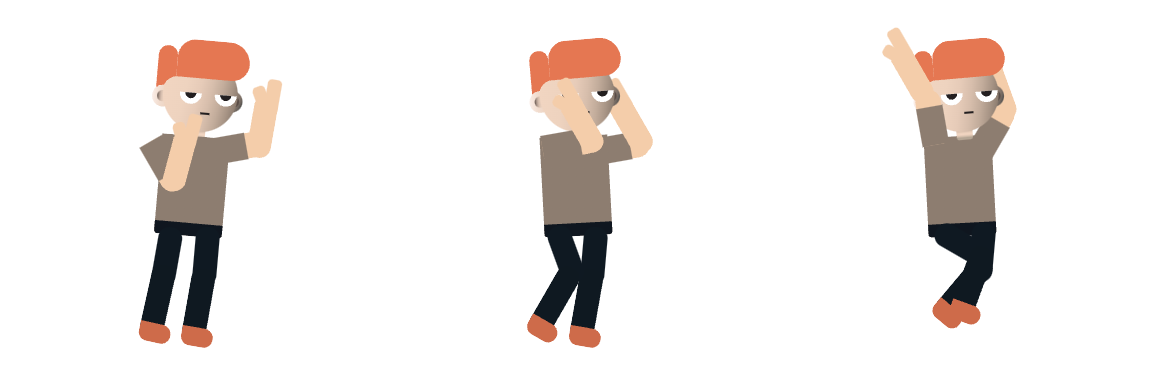
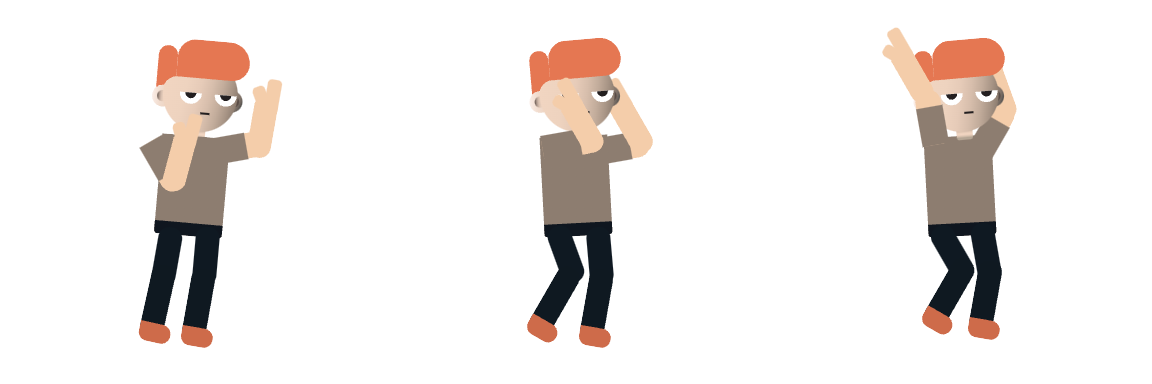
add: tutorial map, wall, jump animation fixed

Changed region(s): [[0.7812, 0.5938, 0.875, 0.9062], [0.4688, 0.625, 0.5312, 0.9062]]

diff --git a/src/components/scene-environments/Tutorial.tsx b/src/components/scene-environments/Tutorial.tsx
@@ -1,0 +1,88 @@
+import { Environment, OrbitControls } from "@react-three/drei";
+import { Home } from "../../map/Home";
+import { Item } from "./shared/Item";
+import { RigidBody } from "@react-three/rapier";
+import { useContext } from "react";
+import { GameContext } from "../../contexts/GameContext";
+import Wall from "./shared/Wall";
+
+const items = [
+  {
+    name: "StreetLight",
+    position: [10, 0, 0],
+    rotation: -45,
+  },
+  {
+    name: "Tank",
+    position: [2, 0, 0],
+    rotation: 1,
+  },
+  {
+    name: "Tank",
+    position: [2, 0, 3],
+    rotation: 45,
+  },
+  {
+    name: "StreetLight",
+    position: [10, 0, 1],
+    rotation: -45,
+  },
+];
+
+export const TutorialEnvironment = () => {
+  const { camera } = useContext(GameContext);
+  return (
+    <>
+      <Environment preset="dawn" environmentIntensity={0.5} />
+      <directionalLight
+        intensity={1}
+        scale={10}
+        castShadow
+        shadow-mapSize-height={4096}
+        shadow-mapSize-width={4096}
+        rotation={[0, 0, 0]}
+        position={[-2, 8, 3]}
+        shadow-camera-left={-20}
+        shadow-camera-right={20}
+        shadow-camera-top={20}
+        shadow-camera-bottom={-20}
+      />
+
+      {items.map((item, index) => (
+        <RigidBody name="item" lockTranslations lockRotations>
+          <Item item={item} key={index} />
+        </RigidBody>
+      ))}
+      <Home />
+
+      <Wall
+        color="skyblue"
+        position={[0, 1.25, 11.2]}
+        scale={[2.6, 1, 1]}
+        rotation={[0, 0, 0]}
+      />
+
+      <Wall
+        color="skyblue"
+        position={[0, 1.25, -11.3]}
+        scale={[2.6, 1, 1]}
+        rotation={[0, 0, 0]}
+      />
+
+      <Wall
+        color="skyblue"
+        position={[13, 1.25, -0.05]}
+        scale={[2.3, 1, 1]}
+        rotation={[0, 90, 0]}
+      />
+
+      <Wall
+        color="skyblue"
+        position={[-13, 1.25, -0.05]}
+        scale={[2.3, 1, 1]}
+        rotation={[0, 90, 0]}
+      />
+      {camera === 2 && <OrbitControls />}
+    </>
+  );
+};

diff --git a/src/components/scene-environments/shared/Wall.tsx b/src/components/scene-environments/shared/Wall.tsx
@@ -1,0 +1,51 @@
+import { RigidBody } from "@react-three/rapier";
+import { degreeNumberToRadian } from "../../../utils";
+
+interface WallProps {
+  color: string;
+  position: [number, number, number];
+  scale: [number, number, number];
+  rotation: [number, number, number];
+}
+
+const Wall = ({ color, position, scale, rotation }: WallProps) => {
+  return (
+    <group>
+      <RigidBody
+        lockTranslations
+        lockRotations
+        position={position}
+        scale={scale}
+        rotation={[
+          degreeNumberToRadian(rotation[0]),
+          degreeNumberToRadian(rotation[1]),
+          degreeNumberToRadian(rotation[2]),
+        ]}
+      >
+        <mesh>
+          <boxGeometry args={[10, 3, 0.5]} />
+          <meshStandardMaterial color={color} />
+        </mesh>
+      </RigidBody>
+      <RigidBody
+        colliders="trimesh"
+        lockTranslations
+        lockRotations
+        position={[position[0], position[1] + 3, position[2]]}
+        rotation={[
+          degreeNumberToRadian(rotation[0]),
+          degreeNumberToRadian(rotation[1]),
+          degreeNumberToRadian(rotation[2]),
+        ]}
+        scale={scale}
+      >
+        <mesh>
+          <boxGeometry args={[10, 3, 0.1]} />
+          <meshStandardMaterial opacity={0} transparent />
+        </mesh>
+      </RigidBody>
+    </group>
+  );
+};
+
+export default Wall;

diff --git a/src/components/ui/create-character/SpriteFrame/Jump/Jump3.tsx b/src/components/ui/create-character/SpriteFrame/Jump/Jump3.tsx
@@ -34,17 +34,17 @@ const Jump3 = () => {
         <RightHand />
       </div>
       {/* LEFT LEG */}
-      <div className="absolute top-[58%] right-[38%] transform -translate-x-1/2 w-6 z-[5] rotate-[5deg] bg-transparent">
+      <div className="absolute top-[58%] right-[37%] transform -translate-x-1/2 w-6 z-[5] rotate-[-10deg] bg-transparent">
         <LeftTopLeg />
       </div>
-      <div className="absolute top-[66%] right-[40%] transform -translate-x-1/2 w-8 rotate-[40deg] z-[5] bg-transparent">
+      <div className="absolute top-[68%] right-[34%] transform -translate-x-1/2 w-8 rotate-[10deg] z-[5] bg-transparent">
         <LeftFoot />
       </div>
       {/* RIGHT LEG */}
-      <div className="absolute top-[56%] left-[50.5%] transform -translate-x-1/2 w-6 rotate-[-60deg] z-[5] bg-transparent">
+      <div className="absolute top-[58%] left-[48%] transform -translate-x-1/2 w-6 rotate-[-30deg] z-[5] bg-transparent">
         <RightTopLeg />
       </div>
-      <div className="absolute top-[64%] left-[54%] transform -translate-x-1/2 w-8 rotate-[20deg] z-[5] bg-transparent">
+      <div className="absolute top-[67%] left-[48%] transform -translate-x-1/2 w-8 rotate-[30deg] z-[5] bg-transparent">
         <RightFoot />
       </div>
     </>

diff --git a/src/scene/Tutorial.tsx b/src/scene/Tutorial.tsx
@@ -1,14 +1,14 @@
 import { Canvas } from "@react-three/fiber";
 import React, { Suspense, useContext, useMemo } from "react";
-import { HomeEnvironment } from "../components/scene-environments/Home";
 import CharacterController, { Controls } from "../controllers/CharacterController";
 import { Physics } from "@react-three/rapier";
 import { GameContext } from "../contexts/GameContext";
 import { KeyboardControls, PerspectiveCamera } from "@react-three/drei";
+import { TutorialEnvironment } from "../components/scene-environments/Tutorial";
 
 interface HomeProps {}
 
-const Home: React.FC<HomeProps> = () => {
+const Tutorial: React.FC<HomeProps> = () => {
   const { debug, camera } = useContext(GameContext);
 
   const controlMap = useMemo(
@@ -37,7 +37,7 @@ const Home: React.FC<HomeProps> = () => {
         <Suspense fallback={null}>
           <Physics debug={debug} gravity={[0, -9.81, 0]}>
             <CharacterController />
-            <HomeEnvironment />
+            <TutorialEnvironment />
           </Physics>
         </Suspense>
       </Canvas>
@@ -45,4 +45,4 @@ const Home: React.FC<HomeProps> = () => {
   );
 };
 
-export default Home;
+export default Tutorial;

diff --git a/src/map/Tutorial.tsx b/src/map/Tutorial.tsx
@@ -1,0 +1,31 @@
+import { useGLTF } from "@react-three/drei";
+import { RigidBody } from "@react-three/rapier";
+import { useMemo } from "react";
+import { SkeletonUtils } from "three-stdlib";
+
+export const Tutorial = () => {
+  const map = useGLTF("models/map.glb");
+
+  const clone = useMemo(() => {
+    const clonedScene = SkeletonUtils.clone(map.scene);
+    clonedScene.traverse((object) => {
+      if ((object as any).isMesh) {
+        object.receiveShadow = true;
+      }
+    });
+    return clonedScene;
+  }, [map.scene]);
+
+  return (
+    <RigidBody
+      colliders="trimesh"
+      type="fixed"
+      name="floor"
+      position={[0, -0.1, 0]}
+    >
+      <primitive object={clone} />
+    </RigidBody>
+  );
+};
+
+useGLTF.preload("models/map.glb");

diff --git a/src/App.tsx b/src/App.tsx
@@ -10,6 +10,7 @@ import DebugToolsBar from "./components/ui/DebugToolsBar";
 import { useDebugTools } from "./hooks/useDebugsTool";
 import CreateCharacter from "./pages/CreateCharacter";
 import Welcome from "./scene/Welcome";
+import Tutorial from "./scene/Tutorial";
 
 function App() {
   const { currentScene } = useContext(GameContext);
@@ -29,6 +30,7 @@ function App() {
                     <SceneRouter currentScene={currentScene}>
                       <Scene title="welcome" scene={<Welcome/>} />
                       <Scene title="home" scene={<Home />} />
+                      <Scene title="tutorial" scene={<Tutorial/>} />
                       <Scene title="test" scene={<Test />} />
                     </SceneRouter>
                   </div>

diff --git a/src/components/ui/create-character/SpriteFrame/Jump/Jump2.tsx b/src/components/ui/create-character/SpriteFrame/Jump/Jump2.tsx
@@ -34,10 +34,10 @@ const Jump2 = () => {
         <RightHand />
       </div>
       {/* LEFT LEG */}
-      <div className="absolute top-[59%] right-[39%] transform -translate-x-1/2 w-6 z-[5] rotate-[5deg] bg-transparent">
+      <div className="absolute top-[59%] right-[37.5%] transform -translate-x-1/2 w-6 z-[5] rotate-[-5deg] bg-transparent">
         <LeftTopLeg />
       </div>
-      <div className="absolute top-[70%] right-[38%] transform -translate-x-1/2 w-8 rotate-[10deg] z-[5] bg-transparent">
+      <div className="absolute top-[70%] right-[35.5%] transform -translate-x-1/2 w-8 rotate-[10deg] z-[5] bg-transparent">
         <LeftFoot />
       </div>
       {/* RIGHT LEG */}

diff --git a/src/controllers/CharacterController.tsx b/src/controllers/CharacterController.tsx
@@ -100,8 +100,8 @@ const CharacterController: React.FC = () => {
       const playerWorldPos = vec3(rigidBody.current.translation());
       controls.current.setLookAt(
         playerWorldPos.x + 1,
-        playerWorldPos.y + cameraDistanceY + 4,
-        playerWorldPos.z + cameraDistanceZ + 2,
+        playerWorldPos.y + cameraDistanceY + 5,
+        playerWorldPos.z + cameraDistanceZ + 3,
         playerWorldPos.x + 1,
         playerWorldPos.y - 2,
         playerWorldPos.z - 8,

diff --git a/src/contexts/GameContext.tsx b/src/contexts/GameContext.tsx
@@ -13,11 +13,11 @@ interface GameContextProps {
 }
 
 const initialGameContext: GameContextProps = {
-  currentScene: "home",
+  currentScene: "tutorial",
   speed: 7.5,
-  debug: false,
-  sceneList: ["home", "test","welcome"],
-  camera: 1,
+  debug: true,
+  sceneList: ["home","tutorial", "test","welcome"],
+  camera: 2,
   cameraList: [1, 2, 3],
 };
 

diff --git a/src/utils.ts b/src/utils.ts
@@ -1,0 +1,5 @@
+const degreeNumberToRadian = (degree: number) => {
+    return degree * (Math.PI / 180);
+}
+
+export { degreeNumberToRadian };
